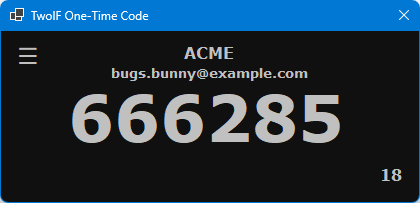
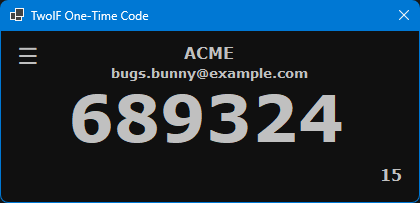
Fix typo

diff --git a/TwoIFClient/TokenManagerWindow.Designer.cs b/TwoIFClient/TokenManagerWindow.Designer.cs
@@ -405,7 +405,7 @@
             TypeLabel.Name = "TypeLabel";
             TypeLabel.Size = new Size(65, 14);
             TypeLabel.TabIndex = 6;
-            TypeLabel.Text = "OPT Type";
+            TypeLabel.Text = "OTP Type";
             // 
             // groupBox2
             // 
